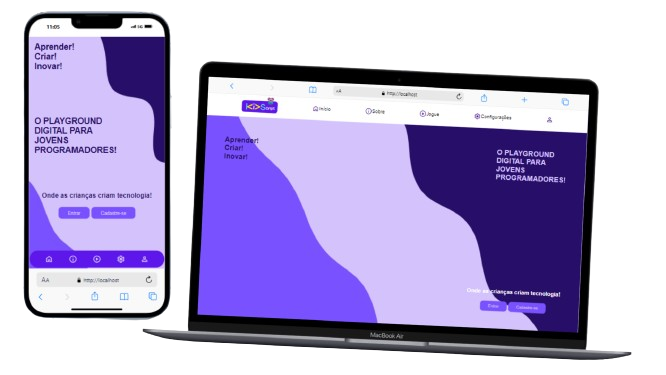
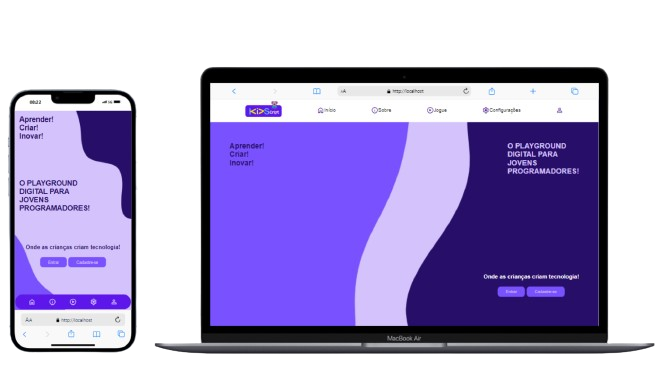
feat: no-complete landing page - fixing 80%

diff --git a/frontend/styles/components/main.css b/frontend/styles/components/main.css
@@ -53,14 +53,15 @@ body {
 
 iframe {
     width: 90%;
-    height: 20em;
+    height: 35em;
     transform: scaleY(-1);
     z-index: 100;
+    position: absolute;
 }
 
 .landing-seguiment {
     background: url(../../assets/side-wave_background.jpg);
-    mask-image: linear-gradient(to bottom, transparent 20%, black 90%);
+    mask-image: linear-gradient(to bottom, transparent 1%, black 90%);
     background-repeat: no-repeat;
     background-size: cover;
     transform: scaleY(-1);
@@ -76,16 +77,31 @@ iframe {
 }
 
 .aside-texts{
-    width: 60%;
+    width: 50%;
 }
 
 .aside-texts p {
-    margin: 1em;
+    margin: 2em;
     text-align: justify;
+}
+
+.aside-assets{
+    width: 40%;
+    margin: auto;
 }
 
 hr{
     border: var(--dark-purple) 1px solid;
+}
+
+.avaliations{
+    display: flex;
+    flex-direction: column;
+    justify-content: center;
+}
+
+.avaliation{
+    display: flex;
 }
 
 @media screen and (max-width: 768px) {
@@ -132,6 +148,10 @@ hr{
     }
     .aside-texts{
         margin: auto;
+    }
+    .aside-texts p {
+        margin: 2em 0.5em;
+        text-align: justify;
     }
     .aside-assets{
         margin: auto;

diff --git a/frontend/styles/components/header.css b/frontend/styles/components/header.css
@@ -57,10 +57,32 @@ header {
     overflow-y: hidden;
 }
 
-
 .material-symbols-outlined {
     overflow-y: hidden;
     color: #6104a8;
+}
+
+.highlight-hover {
+    position: relative;
+    cursor: default;
+}
+
+.highlight-hover::before {
+    content: '';
+    position: absolute;
+    width: 100%;
+    height: 2px;
+    background-color: var(--purple);
+    bottom: 0;
+    left: 0;
+    transform-origin: right;
+    transform: scaleX(0);
+    transition: transform .3s ease-in-out;
+}
+
+.highlight-hover:hover::before {
+    transform-origin: left;
+    transform: scaleX(1);
 }
 
 @media screen and (max-width: 768px) {

diff --git a/frontend/styles/utils/utils.css b/frontend/styles/utils/utils.css
@@ -39,6 +39,26 @@
 
 /* ref */
 
+::-webkit-scrollbar {
+    width: 6px;
+    background: var(--white);
+}
+
+::-webkit-scrollbar-thumb {
+    background: var(--dark-purple);
+    border-radius: 4px;
+}
+
+::-webkit-scrollbar-thumb:hover {
+    background: var(--black);
+}
+
+::selection{
+    background: #5e17eb71;
+    color: #fff;
+}
+
+
 /* default settings  */
 
 /* ------------------------ */

diff --git a/frontend/index.php b/frontend/index.php
@@ -32,7 +32,7 @@
                     <span class="material-symbols-outlined">
                         home
                     </span>
-                    <p>Início</p>
+                    <p class="highlight-hover">Início</p>
                 </a>
             </li>
             <li class="icons">
@@ -40,7 +40,7 @@
                     <span class="material-symbols-outlined">
                         info
                     </span>
-                    <p>Sobre</p>
+                    <p class="highlight-hover">Sobre</p>
                 </a>
             </li>
             <li class="icons">
@@ -48,7 +48,7 @@
                     <span class="material-symbols-outlined">
                         play_circle
                     </span>
-                    <p>Jogue</p>
+                    <p class="highlight-hover">Jogue</p>
                 </a>
             </li>
             <li class="icons">
@@ -56,7 +56,7 @@
                     <span class="material-symbols-outlined">
                         settings
                     </span>
-                    <p>Configurações</p>
+                    <p class="highlight-hover">Configurações</p>
                 </a>
             </li>
             <li class="icons">
@@ -93,7 +93,7 @@
             </div>
         </div>
         <div class="section landing-seguiment">
-        <iframe width="560" height="315" src="https://www.youtube.com/embed/RYbI07-3HmM?si=fzACzgUH-ts8cGtJ" title="YouTube video player" frameborder="0" allow="accelerometer; autoplay; clipboard-write; encrypted-media; gyroscope; picture-in-picture; web-share" referrerpolicy="strict-origin-when-cross-origin" allowfullscreen></iframe>
+            <iframe width="560" height="315" src="https://www.youtube.com/embed/RYbI07-3HmM?si=fzACzgUH-ts8cGtJ" title="YouTube video player" frameborder="0" allow="accelerometer; autoplay; clipboard-write; encrypted-media; gyroscope; picture-in-picture; web-share" referrerpolicy="strict-origin-when-cross-origin" allowfullscreen></iframe>
         </div>
         <h2 class="section-title">Aprenda Jogando!</h2>
         <div class="learn-playing">
@@ -113,6 +113,33 @@
             </div>
             <div class="aside-assets">
                 <img src="assets/preview-plataforms.png" alt="" width="100%">
+            </div>
+        </div>
+        <h2 class="section-title">Avaliado por <br> especialistas:</h2>
+        <div class="avaliations">
+            <div class="avaliation">
+                <div class="specialist">
+                    <img src="https://i.pinimg.com/736x/de/59/4e/de594ec09881da3fa66d98384a3c72ff.jpg" alt="" width="80px">
+                </div>
+                <div class="comment">
+                    Lorem ipsum dolor sit amet consectetur, adipisicing elit. Doloribus commodi rerum natus, odit placeat harum dolorem sunt ducimus earum. Dolor mollitia assumenda nesciunt. Necessitatibus tenetur facilis iste vel nemo porro.
+                </div>
+            </div>
+            <div class="avaliation">
+                <div class="specialist">
+                    <img src="https://i.pinimg.com/736x/de/59/4e/de594ec09881da3fa66d98384a3c72ff.jpg" alt="" width="80px">
+                </div>
+                <div class="comment">
+                    Lorem ipsum dolor sit amet consectetur, adipisicing elit. Doloribus commodi rerum natus, odit placeat harum dolorem sunt ducimus earum. Dolor mollitia assumenda nesciunt. Necessitatibus tenetur facilis iste vel nemo porro.
+                </div>
+            </div>
+            <div class="avaliation">
+                <div class="specialist">
+                    <img src="https://i.pinimg.com/736x/de/59/4e/de594ec09881da3fa66d98384a3c72ff.jpg" alt="" width="80px">
+                </div>
+                <div class="comment">
+                    Lorem ipsum dolor sit amet consectetur, adipisicing elit. Doloribus commodi rerum natus, odit placeat harum dolorem sunt ducimus earum. Dolor mollitia assumenda nesciunt. Necessitatibus tenetur facilis iste vel nemo porro.
+                </div>
             </div>
         </div>
     </main>
